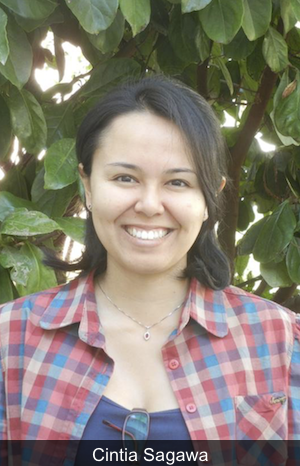
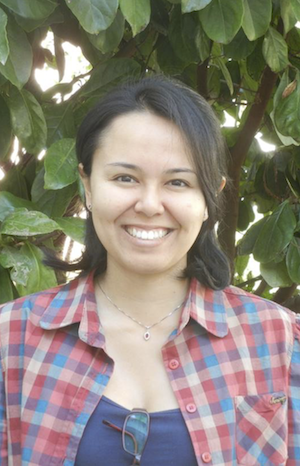
captions

Changed region(s): [[0.0, 0.9313, 1.0, 1.0]]

diff --git a/_site/index.html b/_site/index.html
@@ -316,7 +316,10 @@ if (document.documentElement.clientWidth < 990){
 	$('#basicExample2').justifiedGallery({
     rowHeight : rowHeight2,
     lastRow : 'justify',
-    margins : 1
+    margins : 1 ,
+    captionSettings: { animationDuration: 500,
+  visibleOpacity: 0.4,
+  nonVisibleOpacity: 1 }
 });
 </script>
 
@@ -767,6 +770,23 @@ $(window).scroll(toggleNavCollapse);$(function(){$("a.page-scroll").bind("click"
 
 
 
+
+  
+
+  <!-- Google Tracking Id Start -->
+
+  <script>
+    (function(i,s,o,g,r,a,m){i['GoogleAnalyticsObject']=r;i[r]=i[r]||function(){
+    (i[r].q=i[r].q||[]).push(arguments)},i[r].l=1*new Date();a=s.createElement(o),
+    m=s.getElementsByTagName(o)[0];a.async=1;a.src=g;m.parentNode.insertBefore(a,m)
+    })(window,document,'script','//www.google-analytics.com/analytics.js','ga');
+    ga('create', '', 'auto');
+    ga('send', 'pageview');
+  </script>
+
+  <!-- Google Tracking Id End -->
+
+  
 
 
 

diff --git a/_site/404.html b/_site/404.html
@@ -220,6 +220,23 @@ $(window).scroll(toggleNavCollapse);$(function(){$("a.page-scroll").bind("click"
 
 
 
+  
+
+  <!-- Google Tracking Id Start -->
+
+  <script>
+    (function(i,s,o,g,r,a,m){i['GoogleAnalyticsObject']=r;i[r]=i[r]||function(){
+    (i[r].q=i[r].q||[]).push(arguments)},i[r].l=1*new Date();a=s.createElement(o),
+    m=s.getElementsByTagName(o)[0];a.async=1;a.src=g;m.parentNode.insertBefore(a,m)
+    })(window,document,'script','//www.google-analytics.com/analytics.js','ga');
+    ga('create', '', 'auto');
+    ga('send', 'pageview');
+  </script>
+
+  <!-- Google Tracking Id End -->
+
+  
+
 
 
 

diff --git a/_site/abstract-thanks.html b/_site/abstract-thanks.html
@@ -218,6 +218,23 @@ $(window).scroll(toggleNavCollapse);$(function(){$("a.page-scroll").bind("click"
 
 
 
+  
+
+  <!-- Google Tracking Id Start -->
+
+  <script>
+    (function(i,s,o,g,r,a,m){i['GoogleAnalyticsObject']=r;i[r]=i[r]||function(){
+    (i[r].q=i[r].q||[]).push(arguments)},i[r].l=1*new Date();a=s.createElement(o),
+    m=s.getElementsByTagName(o)[0];a.async=1;a.src=g;m.parentNode.insertBefore(a,m)
+    })(window,document,'script','//www.google-analytics.com/analytics.js','ga');
+    ga('create', '', 'auto');
+    ga('send', 'pageview');
+  </script>
+
+  <!-- Google Tracking Id End -->
+
+  
+
 
 
 

diff --git a/_site/abstracts/index.html b/_site/abstracts/index.html
@@ -473,6 +473,23 @@ $(window).scroll(toggleNavCollapse);$(function(){$("a.page-scroll").bind("click"
 
 
 
+  
+
+  <!-- Google Tracking Id Start -->
+
+  <script>
+    (function(i,s,o,g,r,a,m){i['GoogleAnalyticsObject']=r;i[r]=i[r]||function(){
+    (i[r].q=i[r].q||[]).push(arguments)},i[r].l=1*new Date();a=s.createElement(o),
+    m=s.getElementsByTagName(o)[0];a.async=1;a.src=g;m.parentNode.insertBefore(a,m)
+    })(window,document,'script','//www.google-analytics.com/analytics.js','ga');
+    ga('create', '', 'auto');
+    ga('send', 'pageview');
+  </script>
+
+  <!-- Google Tracking Id End -->
+
+  
+
 
 
 

diff --git a/_site/organizerbios/index.html b/_site/organizerbios/index.html
@@ -307,6 +307,23 @@ $(window).scroll(toggleNavCollapse);$(function(){$("a.page-scroll").bind("click"
 
 
 
+  
+
+  <!-- Google Tracking Id Start -->
+
+  <script>
+    (function(i,s,o,g,r,a,m){i['GoogleAnalyticsObject']=r;i[r]=i[r]||function(){
+    (i[r].q=i[r].q||[]).push(arguments)},i[r].l=1*new Date();a=s.createElement(o),
+    m=s.getElementsByTagName(o)[0];a.async=1;a.src=g;m.parentNode.insertBefore(a,m)
+    })(window,document,'script','//www.google-analytics.com/analytics.js','ga');
+    ga('create', '', 'auto');
+    ga('send', 'pageview');
+  </script>
+
+  <!-- Google Tracking Id End -->
+
+  
+
 
 
 

diff --git a/_site/speakerbios/index.html b/_site/speakerbios/index.html
@@ -283,6 +283,23 @@ $(window).scroll(toggleNavCollapse);$(function(){$("a.page-scroll").bind("click"
 
 
 
+  
+
+  <!-- Google Tracking Id Start -->
+
+  <script>
+    (function(i,s,o,g,r,a,m){i['GoogleAnalyticsObject']=r;i[r]=i[r]||function(){
+    (i[r].q=i[r].q||[]).push(arguments)},i[r].l=1*new Date();a=s.createElement(o),
+    m=s.getElementsByTagName(o)[0];a.async=1;a.src=g;m.parentNode.insertBefore(a,m)
+    })(window,document,'script','//www.google-analytics.com/analytics.js','ga');
+    ga('create', '', 'auto');
+    ga('send', 'pageview');
+  </script>
+
+  <!-- Google Tracking Id End -->
+
+  
+
 
 
 

diff --git a/_site/symposia/index.html b/_site/symposia/index.html
@@ -394,6 +394,23 @@ $(window).scroll(toggleNavCollapse);$(function(){$("a.page-scroll").bind("click"
 
 
 
+  
+
+  <!-- Google Tracking Id Start -->
+
+  <script>
+    (function(i,s,o,g,r,a,m){i['GoogleAnalyticsObject']=r;i[r]=i[r]||function(){
+    (i[r].q=i[r].q||[]).push(arguments)},i[r].l=1*new Date();a=s.createElement(o),
+    m=s.getElementsByTagName(o)[0];a.async=1;a.src=g;m.parentNode.insertBefore(a,m)
+    })(window,document,'script','//www.google-analytics.com/analytics.js','ga');
+    ga('create', '', 'auto');
+    ga('send', 'pageview');
+  </script>
+
+  <!-- Google Tracking Id End -->
+
+  
+
 
 
 

diff --git a/_site/tags/tutorial.html b/_site/tags/tutorial.html
@@ -230,6 +230,23 @@ $(window).scroll(toggleNavCollapse);$(function(){$("a.page-scroll").bind("click"
 
 
 
+  
+
+  <!-- Google Tracking Id Start -->
+
+  <script>
+    (function(i,s,o,g,r,a,m){i['GoogleAnalyticsObject']=r;i[r]=i[r]||function(){
+    (i[r].q=i[r].q||[]).push(arguments)},i[r].l=1*new Date();a=s.createElement(o),
+    m=s.getElementsByTagName(o)[0];a.async=1;a.src=g;m.parentNode.insertBefore(a,m)
+    })(window,document,'script','//www.google-analytics.com/analytics.js','ga');
+    ga('create', '', 'auto');
+    ga('send', 'pageview');
+  </script>
+
+  <!-- Google Tracking Id End -->
+
+  
+
 
 
 

diff --git a/_site/thanks.html b/_site/thanks.html
@@ -219,6 +219,23 @@ $(window).scroll(toggleNavCollapse);$(function(){$("a.page-scroll").bind("click"
 
 
 
+  
+
+  <!-- Google Tracking Id Start -->
+
+  <script>
+    (function(i,s,o,g,r,a,m){i['GoogleAnalyticsObject']=r;i[r]=i[r]||function(){
+    (i[r].q=i[r].q||[]).push(arguments)},i[r].l=1*new Date();a=s.createElement(o),
+    m=s.getElementsByTagName(o)[0];a.async=1;a.src=g;m.parentNode.insertBefore(a,m)
+    })(window,document,'script','//www.google-analytics.com/analytics.js','ga');
+    ga('create', '', 'auto');
+    ga('send', 'pageview');
+  </script>
+
+  <!-- Google Tracking Id End -->
+
+  
+
 
 
 

diff --git a/_site/speakers.html b/_site/speakers.html
@@ -65,7 +65,10 @@ if (document.documentElement.clientWidth < 990){
 	$('#basicExample2').justifiedGallery({
     rowHeight : rowHeight2,
     lastRow : 'justify',
-    margins : 1
+    margins : 1 ,
+    captionSettings: { animationDuration: 500,
+  visibleOpacity: 0.4,
+  nonVisibleOpacity: 1 }
 });
 </script>
 

diff --git a/speakers.html b/speakers.html
@@ -72,7 +72,10 @@ if (document.documentElement.clientWidth < 990){
 	$('#basicExample2').justifiedGallery({
     rowHeight : rowHeight2,
     lastRow : 'justify',
-    margins : 1
+    margins : 1 ,
+    captionSettings: { animationDuration: 500,
+  visibleOpacity: 0.4,
+  nonVisibleOpacity: 1 }
 });
 </script>
 
